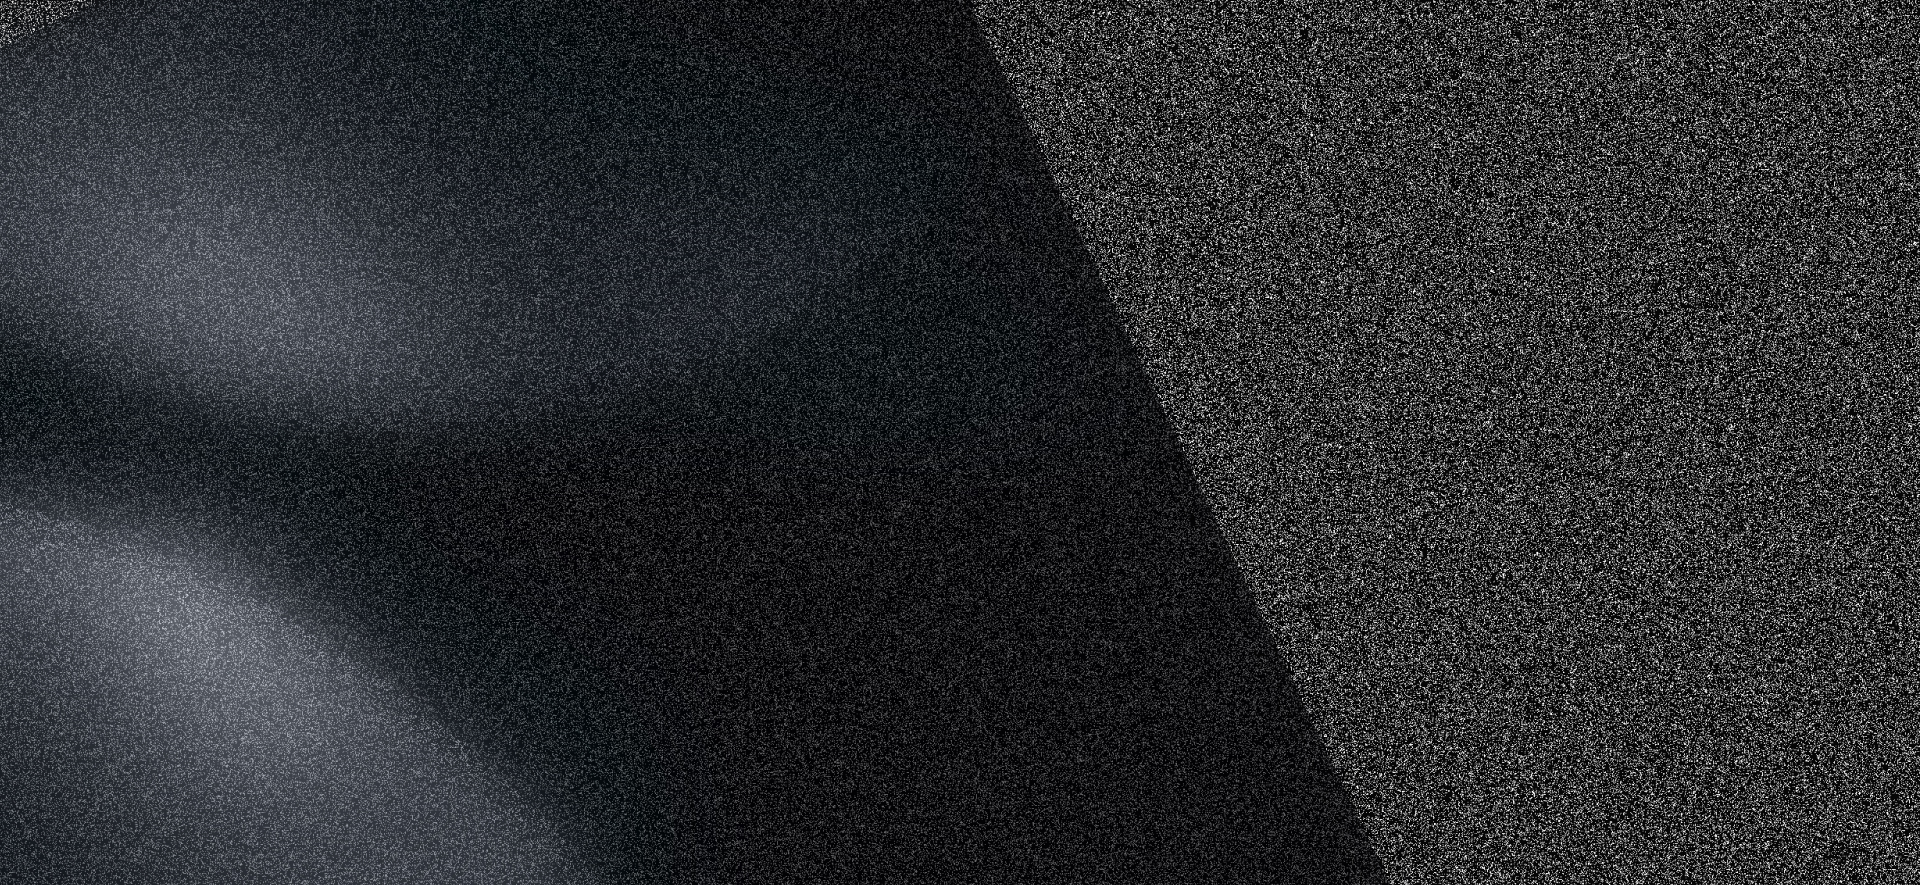
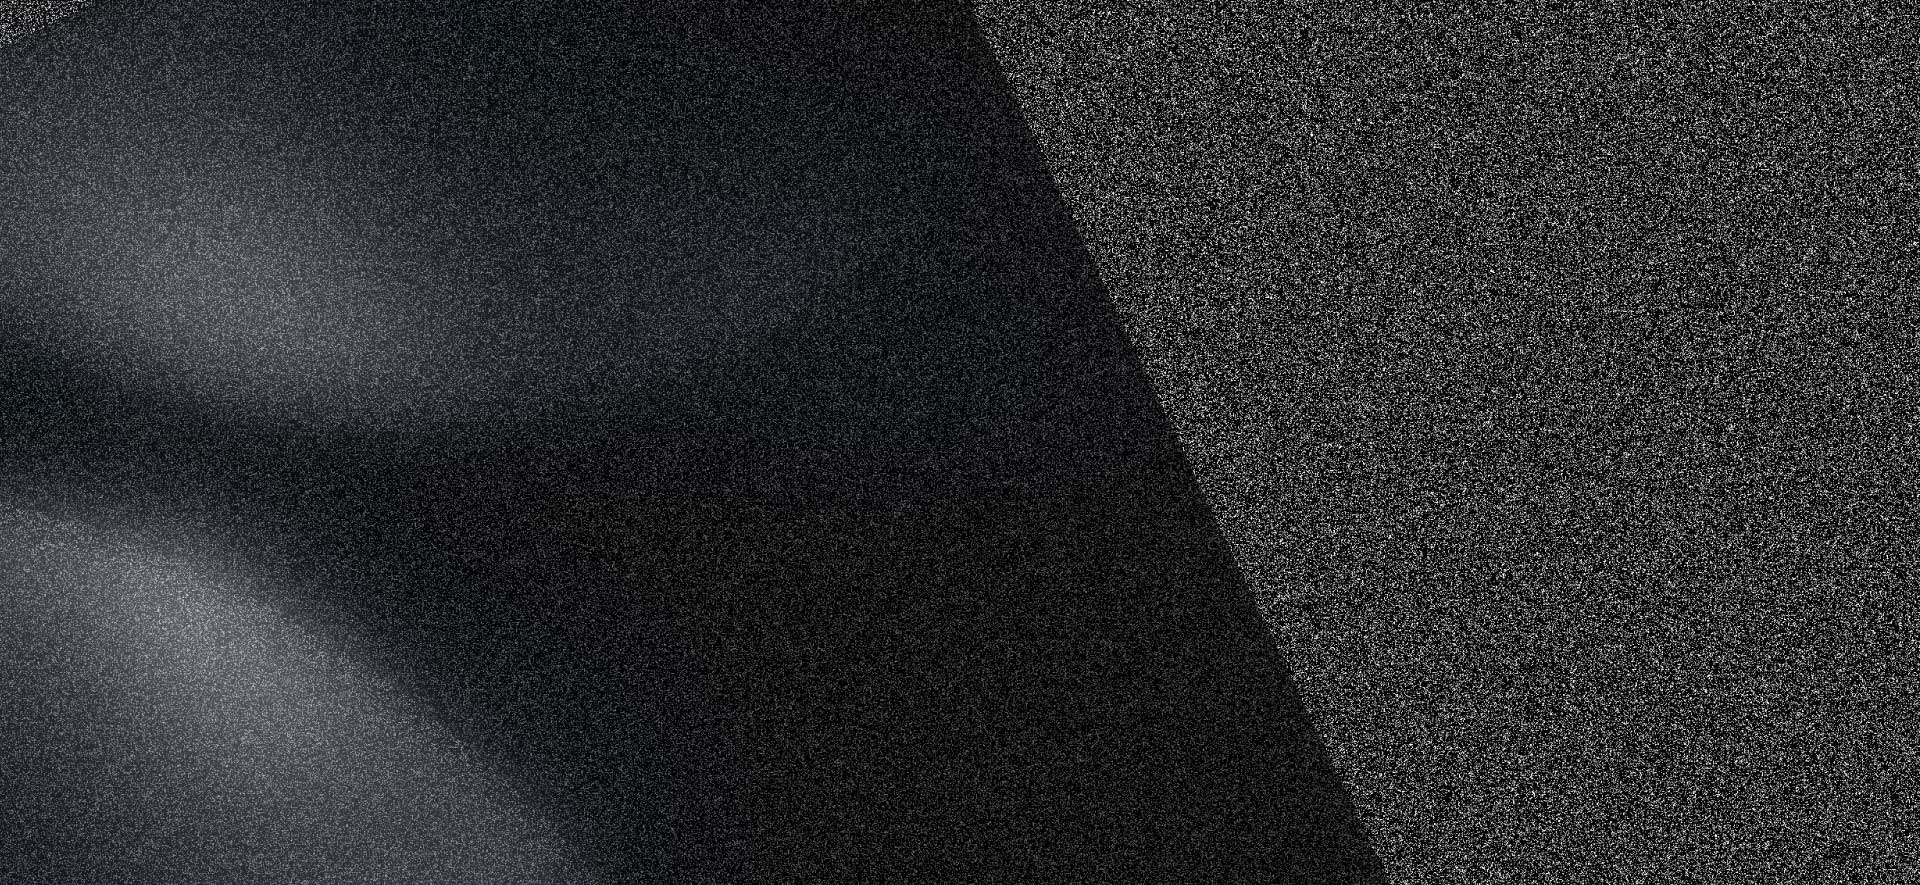
image

diff --git a/src/app/components/product-detail/product-detail.component.html b/src/app/components/product-detail/product-detail.component.html
@@ -1,4 +1,3 @@
-<!-- Body main wrapper start -->
 <main *ngIf="product">
     <!-- Product details area start -->
     <div class="product__details-area section-space-medium">
@@ -142,7 +141,16 @@
 
 
 </main>
-
-<div *ngIf="!product">
-    <p>Product not found!</p>
-</div>
+<main *ngIf="!product">
+    <div class="container">
+        <div class="row">
+            <div class="col-12 text-center my-5">
+                <div class="loader-container" id="loader">
+                    <div class="spinner-border text-primary" role="status" style="width: 4rem; height: 4rem;">
+                        <span class="visually-hidden">Loading...</span>
+                    </div>
+                </div>
+            </div>
+        </div>
+    </div>
+</main>

diff --git a/src/styles.scss b/src/styles.scss
@@ -153,7 +153,7 @@ header {
 }
 
 .contact-section {
-    background-image: url('assets/imgs/contact/bg-con.jpg');
+    background-image: url('assets/imgs/contact/bg-con.png');
     background-size: cover;
     background-position: center;
     height: 300px;
@@ -382,4 +382,17 @@ textarea {
 
 .product__details-price {
     margin-bottom: 0;
+}
+
+.loader-container {
+    position: fixed;
+    top: 0;
+    left: 0;
+    width: 100%;
+    height: 100%;
+    background-color: rgba(255, 255, 255, 0.8);
+    display: flex;
+    justify-content: center;
+    align-items: center;
+    z-index: 9999;
 }
